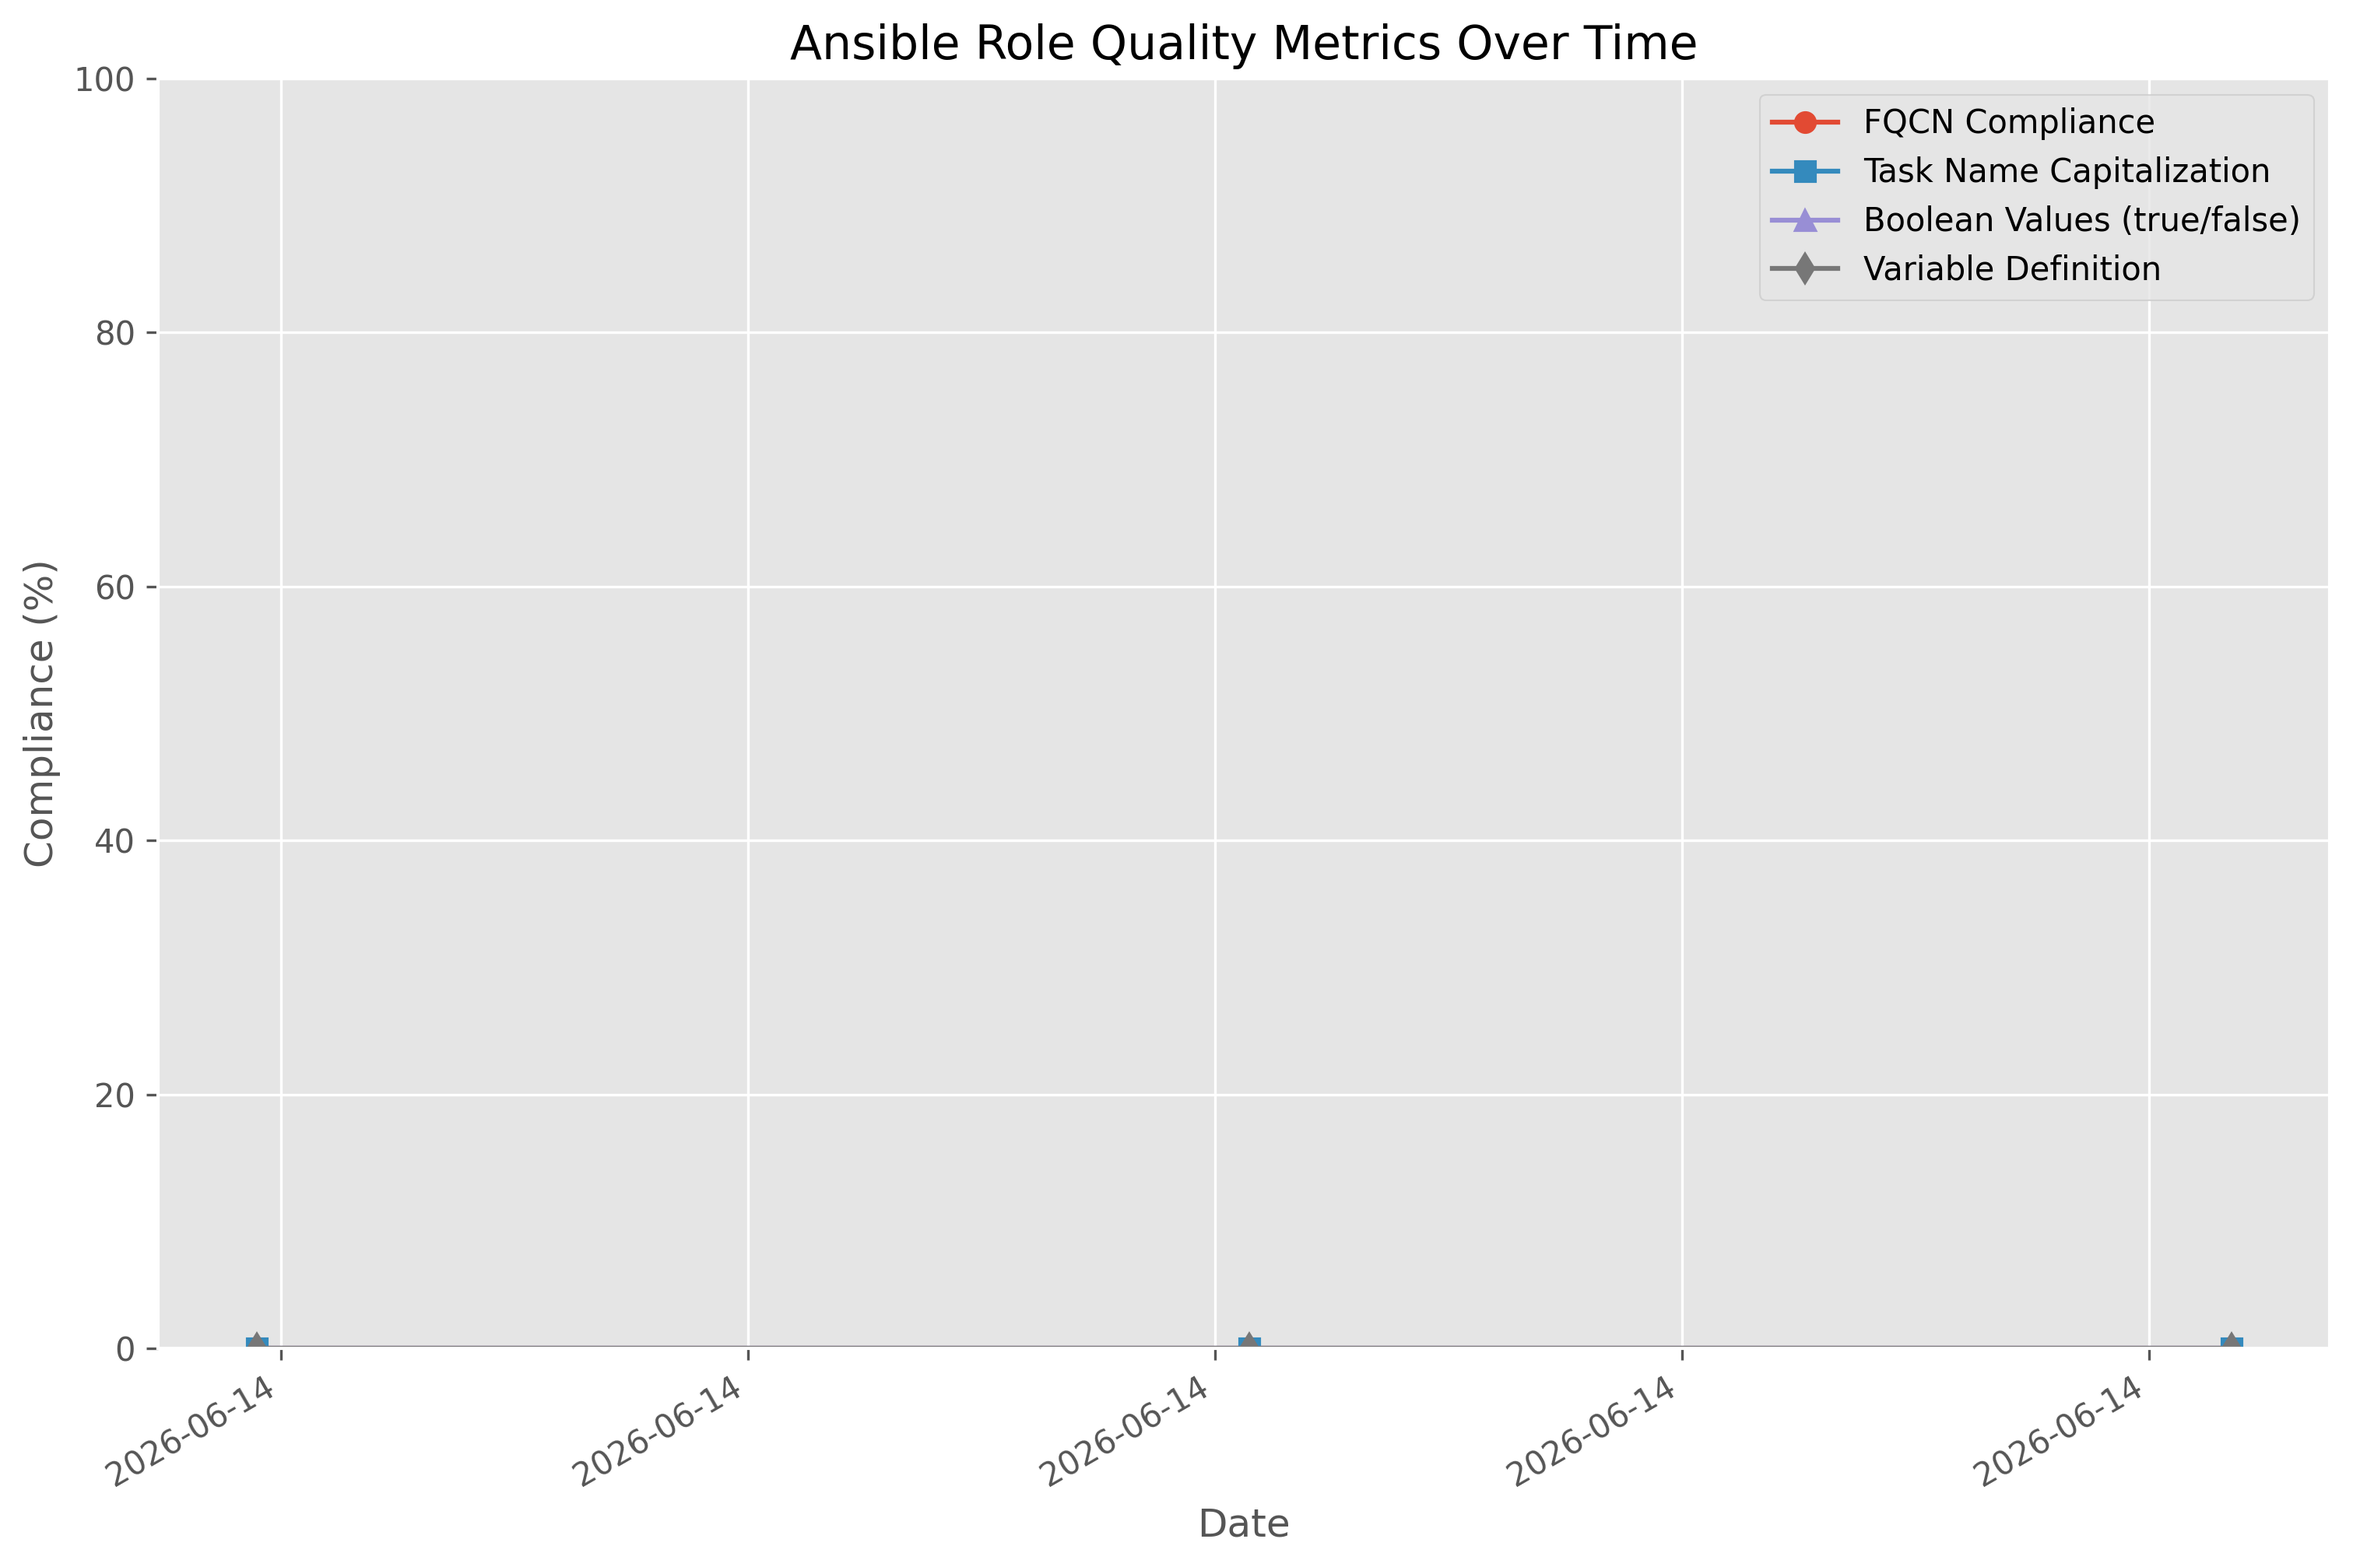
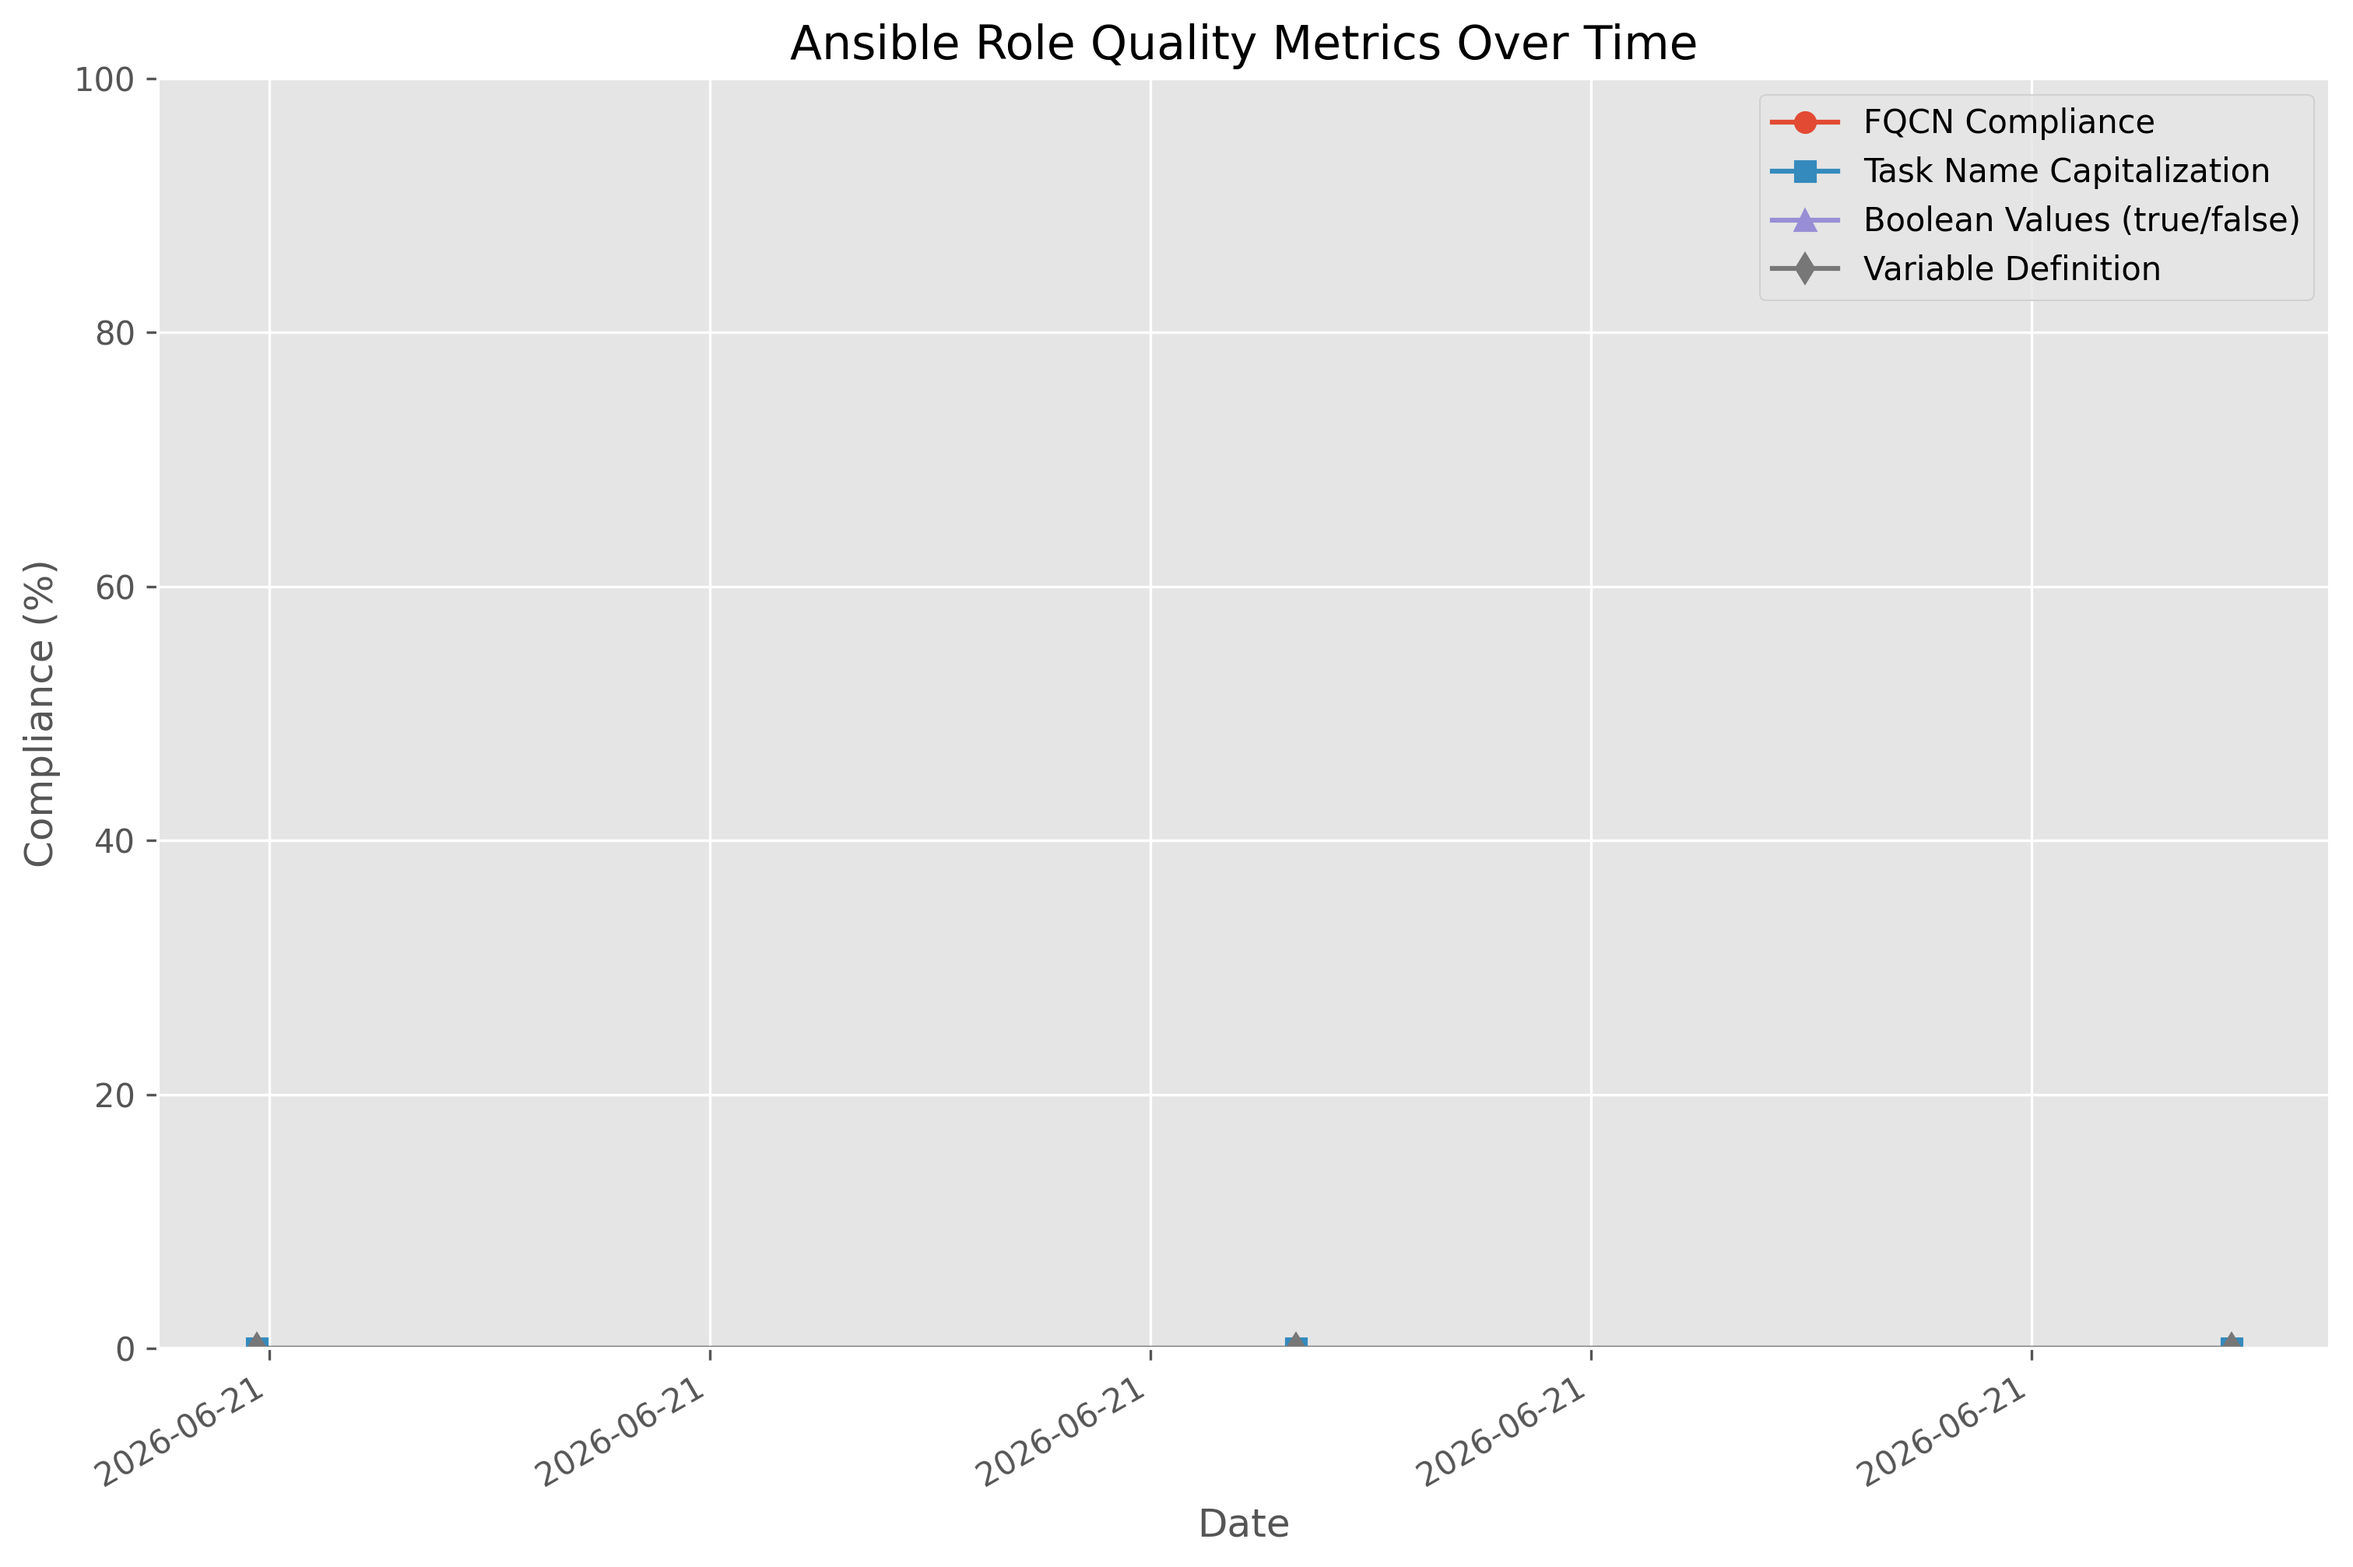
Update metrics (automated) 86381e575e3cb567ae7d61f2b827ec3665fe9a28

diff --git a/metrics/metrics_summary.md b/metrics/metrics_summary.md
@@ -1,6 +1,6 @@
 # Chef to Ansible Conversion Metrics
 
-Last updated: 2026-06-14 00:59:40
+Last updated: 2026-06-21 01:01:32
 
 ## Latest Compliance Metrics
 
